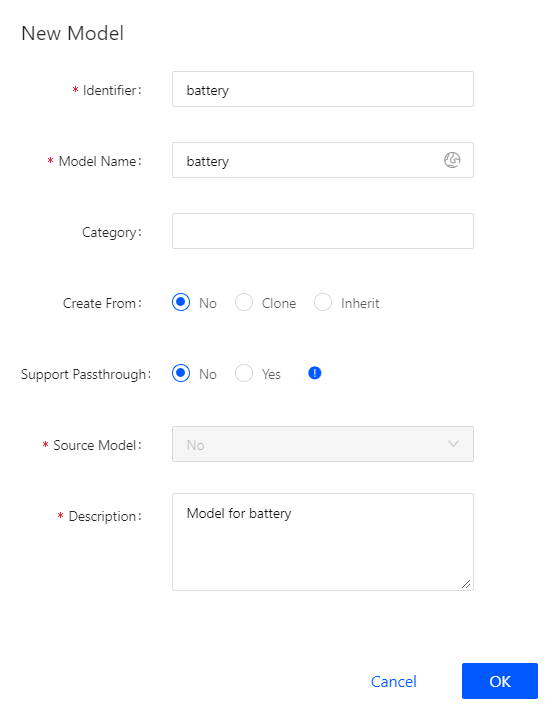
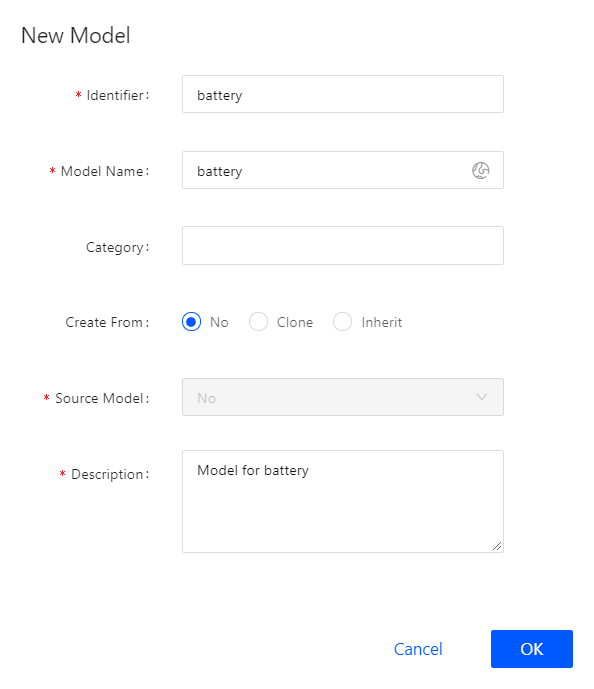
Update.

diff --git a/connecting_device_simulated/registering_device.md b/connecting_device_simulated/registering_device.md
@@ -2,13 +2,13 @@
 
 Before connecting devices to EnOS IoT hub, you need to register the devices on the EnOS Console, which includes defining the device model, creating a product, registering the devices, and creating an asset tree for the devices.
 
-This tutorial takes a battery device as an example, focusing on how to register a device that connects directly to the EnOS Cloud.
+This tutorial takes a battery device as an example, focusing on how to register a smart device that connects directly to the EnOS Cloud.
 
 ## Step 1: Defining a Model
 
-A model is the abstraction of the features of an object that is connected to IoT. The device model defines the features of a device, including attributes, measuring points, services, and events. For more information about models, see [Thing Model](/docs/device-connection/en/latest/model/model_overview).
+A model is the abstraction of the features of an object that is connected to IoT hub. The device model defines the features of a device, including attributes, measuring points, services, and events. For more information about models, see [Thing Model](/docs/device-connection/en/latest/model/model_overview).
 
-This step assumes that there is no device model to be reused on EnOS. Take the following steps to create a model named **battery**.
+This step assumes that there is no device model to be reused on EnOS. Take the following steps to create a model named **battery** and define the needed features.
 
 1. In the EnOS Console, click **Model** from the left navigation panel.
 
@@ -18,8 +18,7 @@ This step assumes that there is no device model to be reused on EnOS. Take the f
    - **Model Name**: battery
    - **Category**: NA
    - **Create From**: No
-   - **Support Passthrough**: No
-   - **Source Model**: NA
+   - **Source Model**: No
    - **Description**: Model for battery
 
 3. Click **OK** to save the basic information of the model.

diff --git a/connecting_device_simulated/simulating_data.md b/connecting_device_simulated/simulating_data.md
@@ -6,7 +6,9 @@ After the battery device is connected into the EnOS Cloud, you can simulate the 
 
    ```java
    public static void main(String[] args) throws Exception {
+       initWithCallback();
        alwaysPostMeasurepoint();
+   }
    ```
 
 2. Use the `alwayspostMeasurepoint` function to simulate posting random temperature data of the battery repeatedly:
@@ -17,9 +19,9 @@ After the battery device is connected into the EnOS Cloud, you can simulate the 
                long ts = System.currentTimeMillis();
                Random random = new Random();
                System.out.println("start post measurepoint ...");
-
+   
                MeasurepointPostRequest request = MeasurepointPostRequest.builder().addMeasurePoint("temperature", random.nextDouble()).build();
-
+   
                try {
                    client.fastPublish(request);
                    System.out.println(" post measurepoint success...");
@@ -40,9 +42,7 @@ After the battery device is connected into the EnOS Cloud, you can simulate the 
 
    .. image:: media/view_data.png
 
-5. Click **View data**, select a time range and view the device data in a chart or table. See the following example.
-
-   .. image:: media/data_details.png
+5. Click **View data**, open the **Data Insights** page, and view the latest data of the **temperature** measuring point.
 
 ## Next Unit
 

diff --git a/connecting_device_simulated/connecting_device.md b/connecting_device_simulated/connecting_device.md
@@ -38,13 +38,14 @@ Optionally, you can download the source code of the EnOS Device SDK from [GitHub
 
 After the EnOS Device SDK for MQTT for Java is installed, take the following steps to connect the battery device into EnOS Cloud (you can also refer to the `SimpleSendReceive.java` code sample available from `<SDK_Path>\src\main\java\com\envisioniot\enos\iot_mqtt_sdk\sample`):
 
-1. (Optional) Declare the public variables that will be used in the program, see the following example:
+1. Declare the public variables that will be used in the program, see the following example:
 
    ```java
    public static final String uri = "tcp://{host}:{port}";
    public static final String productKey = "cBwYbSIz";
    public static final String deviceKey = "rcV2wQ6Xer";
    public static final String deviceSecret = "BjyDrW8DMVfnxifQmaKo";
+   private static MqttClient client;
    ```
 
    - The `host` and `port` of the server vary with the cloud region and instance. For private cloud instances, contact your Envision project manager or support representative to get the host and port information.

diff --git a/subscribing_to_device_data/getting_subscribed_data.md b/subscribing_to_device_data/getting_subscribed_data.md
@@ -49,7 +49,7 @@ public class demo {
         String subId = "subscription_id";
 
         /* service */
-        EosClient eosClient = new EosClient(host, port, accessKey, accessSecret);
+        EosClient eosClient = new EosClient(host, port, accessKey, secretKey);
         IDataService dataService = eosClient.getDataService();
 
         /* handler */
@@ -107,7 +107,7 @@ public class demo {
         
         
 		/* service */
-        EosClient eosClient = new EosClient(host, port, accessKey, accessSecret);
+        EosClient eosClient = new EosClient(host, port, accessKey, secretKey);
         IAlertService alertService = eosClient.getAlertService();
 
         /* handler */
